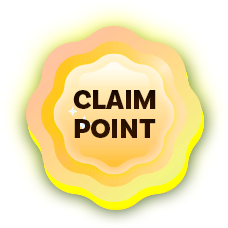
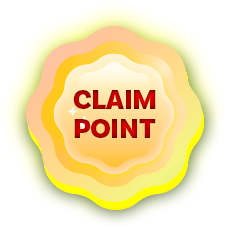
update

Changed region(s): [[0.307, 0.3684, 0.7061, 0.4912], [0.307, 0.5219, 0.6754, 0.614]]

diff --git a/src/components/modal/daily-mission-modal.html b/src/components/modal/daily-mission-modal.html
@@ -5,7 +5,9 @@
     <div class="modal-content">
       <div class="modal-body d-flex gap-4 justify-content-center align-items-center flex-column">
         <div class="title" data-i18n="mission_daily.congratulations"></div>
-        <div>IMG</div>
+        <div>
+          <img src="assets/images/daily-mission/claim-box.gif" />
+        </div>
         <div class="" data-i18n="mission_daily.modal_title"></div>
         <div class="" data-i18n="mission_daily.modal_description"></div>
       </div>

diff --git a/src/pages/spin-event.html b/src/pages/spin-event.html
@@ -13,7 +13,7 @@
           <img class="prize-spin" data-i18n-attr="src" data-i18n="spin_event.spin_wheel" />
           <img class="arrow" src="assets/images/spin-event/PC/Arrow.png" />
           <div class="spin-available" data-i18n="spin_event.spin_available"></div>
-          <img class="claim-point" src="assets/images/spin-event/PC/Claim-point.png" />
+          <img class="claim-point" data-i18n-attr="src" data-i18n="spin_event.claim_point" />
         </div>
       </div>
 
